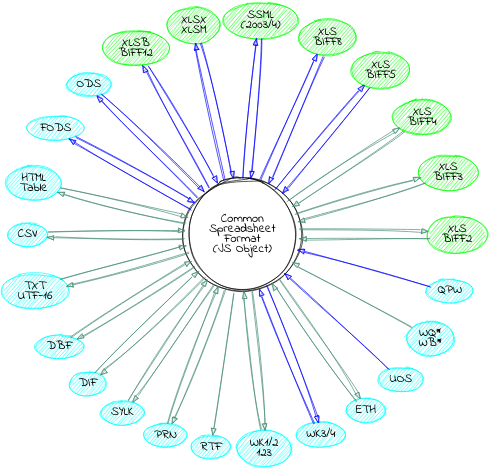
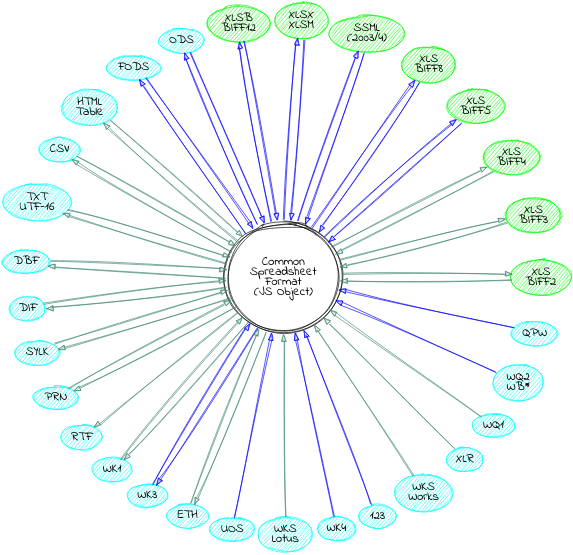
works minutiae

diff --git a/bits/41_lotus.js b/bits/41_lotus.js
@@ -28,11 +28,17 @@ var WK_ = /*#__PURE__*/ (function() {
 		if(!d) return d;
 		var o = opts || {};
 		if(DENSE != null && o.dense == null) o.dense = DENSE;
-		var s/*:Worksheet*/ = ((o.dense ? [] : {})/*:any*/), n = "Sheet1", sidx = 0;
-		var sheets = {}, snames = [n], realnames = [];
+		var s/*:Worksheet*/ = ((o.dense ? [] : {})/*:any*/), n = "Sheet1", next_n = "", sidx = 0;
+		var sheets = {}, snames = [], realnames = [];
 
 		var refguess = {s: {r:0, c:0}, e: {r:0, c:0} };
 		var sheetRows = o.sheetRows || 0;
+
+		if(d[2] == 0x00) {
+			if(d[3] == 0x08 || d[3] == 0x09) {
+				if(d.length >= 16 && d[14] == 0x05 && d[15] === 0x6c) throw new Error("Unsupported Works 3 for Mac file");
+			}
+		}
 
 		if(d[2] == 0x02) {
 			o.Enum = WK1Enum;
@@ -42,6 +48,8 @@ var WK_ = /*#__PURE__*/ (function() {
 					if(val >= 0x1000) o.qpro = true;
 					break;
 				case 0x06: refguess = val; break; /* RANGE */
+				case 0xCC: if(val) next_n = val; break; /* SHEETNAMECS */
+				case 0xDE: next_n = val; break; /* SHEETNAMELP */
 				case 0x0F: /* LABEL */
 				case 0x33: /* STRING */
 					if(!o.qpro) val[1].v = val[1].v.slice(1);
@@ -54,6 +62,18 @@ var WK_ = /*#__PURE__*/ (function() {
 						val[1].z = o.dateNF || SSF._table[14];
 						if(o.cellDates) { val[1].t = 'd'; val[1].v = numdate(val[1].v); }
 					}
+
+					if(o.qpro) {
+						if(val[3] > sidx) {
+							s["!ref"] = encode_range(refguess);
+							sheets[n] = s;
+							snames.push(n);
+							s = (o.dense ? [] : {});
+							refguess = {s: {r:0, c:0}, e: {r:0, c:0} };
+							sidx = val[3]; n = next_n || "Sheet" + (sidx + 1); next_n = "";
+						}
+					}
+
 					var tmpcell = o.dense ? (s[val[0].r]||[])[val[0].c] : s[encode_cell(val[0])];
 					if(tmpcell) {
 						tmpcell.t = val[1].t; tmpcell.v = val[1].v;
@@ -72,6 +92,7 @@ var WK_ = /*#__PURE__*/ (function() {
 			o.Enum = WK3Enum;
 			if(d[2] == 0x0E) { o.qpro = true; d.l = 0; }
 			lotushopper(d, function(val, R, RT) { switch(RT) {
+				case 0xCC: n = val; break; /* SHEETNAMECS */
 				case 0x16: /* LABEL16 */
 					val[1].v = val[1].v.slice(1);
 					/* falls through */
@@ -84,10 +105,10 @@ var WK_ = /*#__PURE__*/ (function() {
 					if(val[3] > sidx) {
 						s["!ref"] = encode_range(refguess);
 						sheets[n] = s;
+						snames.push(n);
 						s = (o.dense ? [] : {});
 						refguess = {s: {r:0, c:0}, e: {r:0, c:0} };
 						sidx = val[3]; n = "Sheet" + (sidx + 1);
-						snames.push(n);
 					}
 					if(sheetRows > 0 && val[0].r >= sheetRows) break;
 					if(o.dense) {
@@ -100,17 +121,23 @@ var WK_ = /*#__PURE__*/ (function() {
 				case 0x1B: /* XFORMAT */
 					if(val[0x36b0]) realnames[val[0x36b0][0]] = val[0x36b0][1];
 					break;
+				case 0x0601: /* SHEETINFOQP */
+					realnames[val[0]] = val[1]; if(val[0] == sidx) n = val[1]; break;
 				default: break;
 			}}, o);
 		} else throw new Error("Unrecognized LOTUS BOF " + d[2]);
-
 		s["!ref"] = encode_range(refguess);
-		sheets[n] = s;
+		sheets[next_n || n] = s;
+		snames.push(next_n || n);
 		if(!realnames.length) return { SheetNames: snames, Sheets: sheets };
 		var osheets = {}, rnames = [];
+		/* TODO: verify no collisions */
 		for(var i = 0; i < realnames.length; ++i) if(sheets[snames[i]]) {
+			rnames.push(realnames[i] || snames[i]);
+			osheets[realnames[i]] = sheets[realnames[i]] || sheets[snames[i]];
+		} else {
 			rnames.push(realnames[i]);
-			osheets[realnames[i]] = sheets[snames[i]];
+			osheets[realnames[i]] = ({ "!ref": "A1" });
 		}
 		return { SheetNames: rnames, Sheets: osheets };
 	}
@@ -126,7 +153,8 @@ var WK_ = /*#__PURE__*/ (function() {
 
 		write_biff_rec(ba, 0x00, write_BOF_WK1(0x0406));
 		write_biff_rec(ba, 0x06, write_RANGE(range));
-		for(var R = range.s.r; R <= range.e.r; ++R) {
+		var max_R = Math.min(range.e.r, 8191);
+		for(var R = range.s.r; R <= max_R; ++R) {
 			var rr = encode_row(R);
 			for(var C = range.s.c; C <= range.e.c; ++C) {
 				if(R === range.s.r) cols[C] = encode_col(C);
@@ -165,7 +193,8 @@ var WK_ = /*#__PURE__*/ (function() {
 			var range = safe_decode_range(ws["!ref"]);
 			var dense = Array.isArray(ws);
 			var cols = [];
-			for(var R = range.s.r; R <= range.e.r; ++R) {
+			var max_R = Math.min(range.e.r, 8191);
+			for(var R = range.s.r; R <= max_R; ++R) {
 				var rr = encode_row(R);
 				for(var C = range.s.c; C <= range.e.c; ++C) {
 					if(R === range.s.r) cols[C] = encode_col(C);
@@ -211,6 +240,7 @@ var WK_ = /*#__PURE__*/ (function() {
 			if(rows < range.e.r) rows = range.e.r;
 			if(cols < range.e.c) cols = range.e.c;
 		}
+		if(rows > 8191) rows = 8191;
 		out.write_shift(2, rows);
 		out.write_shift(1, wscnt);
 		out.write_shift(1, cols);
@@ -223,12 +253,23 @@ var WK_ = /*#__PURE__*/ (function() {
 		return out;
 	}
 
-	function parse_RANGE(blob) {
+	function parse_RANGE(blob, length, opts) {
 		var o = {s:{c:0,r:0},e:{c:0,r:0}};
+		if(length == 8 && opts.qpro) {
+			o.s.c = blob.read_shift(1);
+			blob.l++;
+			o.s.r = blob.read_shift(2);
+			o.e.c = blob.read_shift(1);
+			blob.l++;
+			o.e.r = blob.read_shift(2);
+			return o;
+		}
 		o.s.c = blob.read_shift(2);
 		o.s.r = blob.read_shift(2);
+		if(length == 12 && opts.qpro) blob.l += 2;
 		o.e.c = blob.read_shift(2);
 		o.e.r = blob.read_shift(2);
+		if(length == 12 && opts.qpro) blob.l += 2;
 		if(o.s.c == 0xFFFF) o.s.c = o.e.c = o.s.r = o.e.r = 0;
 		return o;
 	}
@@ -242,10 +283,10 @@ var WK_ = /*#__PURE__*/ (function() {
 	}
 
 	function parse_cell(blob, length, opts) {
-		var o = [{c:0,r:0}, {t:'n',v:0}, 0];
+		var o = [{c:0,r:0}, {t:'n',v:0}, 0, 0];
 		if(opts.qpro && opts.vers != 0x5120) {
 			o[0].c = blob.read_shift(1);
-			blob.l++;
+			o[3] = blob.read_shift(1);
 			o[0].r = blob.read_shift(2);
 			blob.l+=2;
 		} else {
@@ -357,7 +398,7 @@ var WK_ = /*#__PURE__*/ (function() {
 
 	function wk1_fmla_to_csf(blob, o) {
 		prep_blob(blob, 0);
-		var out = [], argc = 0, R = "", C = "";
+		var out = [], argc = 0, R = "", C = "", argL = "", argR = "";
 		while(blob.l < blob.length) {
 			var cc = blob[blob.l++];
 			switch(cc) {
@@ -390,7 +431,7 @@ var WK_ = /*#__PURE__*/ (function() {
 				case 0x16: out.push("NOT(" + out.pop() + ")"); break;
 
 				case 0x14: case 0x15: {
-					var argR = out.pop(), argL = out.pop();
+					argR = out.pop(); argL = out.pop();
 					out.push(["AND", "OR"][cc - 0x14] + "(" + argL + "," + argR + ")");
 				} break;
 
@@ -536,6 +577,27 @@ var WK_ = /*#__PURE__*/ (function() {
 		return o;
 	}
 
+	function parse_SHEETNAMECS(blob, length) {
+		return blob[blob.l + length - 1] == 0 ? blob.read_shift(length, 'cstr') : "";
+	}
+
+	function parse_SHEETNAMELP(blob, length) {
+		var len = blob[blob.l++];
+		if(len > length - 1) len = length - 1;
+		var o = ""; while(o.length < len) o += String.fromCharCode(blob[blob.l++]);
+		return o;
+	}
+
+	function parse_SHEETINFOQP(blob, length, opts) {
+		if(!opts.qpro || length < 21) return;
+		var id = blob.read_shift(1);
+		blob.l += 17;
+		var len = blob.read_shift(1);
+		blob.l += 2;
+		var nm = blob.read_shift(length - 21, 'cstr');
+		return [id, nm];
+	}
+
 	function parse_XFORMAT(blob, length) {
 		var o = {}, tgt = blob.l + length;
 		while(blob.l < tgt) {
@@ -623,6 +685,8 @@ var WK_ = /*#__PURE__*/ (function() {
 		/*::[*/0x0067/*::]*/: { n:"RRANGES??" },
 		/*::[*/0x0068/*::]*/: { n:"FNAME??" },
 		/*::[*/0x0069/*::]*/: { n:"MRANGES??" },
+		/*::[*/0x00CC/*::]*/: { n:"SHEETNAMECS", f:parse_SHEETNAMECS },
+		/*::[*/0x00DE/*::]*/: { n:"SHEETNAMELP", f:parse_SHEETNAMELP },
 		/*::[*/0xFFFF/*::]*/: { n:"" }
 	};
 
@@ -688,6 +752,7 @@ var WK_ = /*#__PURE__*/ (function() {
 		/*::[*/0x00BC/*::]*/: { n:"??" },
 		/*::[*/0x00C3/*::]*/: { n:"??" },
 		/*::[*/0x00C9/*::]*/: { n:"??" },
+		/*::[*/0x00CC/*::]*/: { n:"SHEETNAMECS", f:parse_SHEETNAMECS },
 		/*::[*/0x00CD/*::]*/: { n:"??" },
 		/*::[*/0x00CE/*::]*/: { n:"??" },
 		/*::[*/0x00CF/*::]*/: { n:"??" },
@@ -732,6 +797,7 @@ var WK_ = /*#__PURE__*/ (function() {
 		/*::[*/0x029A/*::]*/: { n:"??" },
 		/*::[*/0x0300/*::]*/: { n:"??" },
 		/*::[*/0x0304/*::]*/: { n:"??" },
+		/*::[*/0x0601/*::]*/: { n:"SHEETINFOQP", f:parse_SHEETINFOQP },
 		/*::[*/0x0640/*::]*/: { n:"??" },
 		/*::[*/0x0642/*::]*/: { n:"??" },
 		/*::[*/0x0701/*::]*/: { n:"??" },

diff --git a/bits/87_read.js b/bits/87_read.js
@@ -91,12 +91,20 @@ function readSync(data/*:RawData*/, opts/*:?ParseOpts*/)/*:Workbook*/ {
 		case 0x54: if(n[1] === 0x41 && n[2] === 0x42 && n[3] === 0x4C) return DIF.to_workbook(d, o); break;
 		case 0x50: return (n[1] === 0x4B && n[2] < 0x09 && n[3] < 0x09) ? read_zip(d, o) : read_prn(data, d, o, str);
 		case 0xEF: return n[3] === 0x3C ? parse_xlml(d, o) : read_prn(data, d, o, str);
-		case 0xFF: if(n[1] === 0xFE) { return read_utf16(d, o); } break;
-		case 0x00: if(n[1] === 0x00 && n[2] >= 0x02 && n[3] === 0x00) return WK_.to_workbook(d, o); break;
+		case 0xFF:
+			if(n[1] === 0xFE) { return read_utf16(d, o); }
+			else if(n[1] === 0x00 && n[2] === 0x02 && n[3] === 0x00) return WK_.to_workbook(d, o);
+			break;
+		case 0x00:
+			if(n[1] === 0x00) {
+				if(n[2] >= 0x02 && n[3] === 0x00) return WK_.to_workbook(d, o);
+				if(n[2] === 0x00 && (n[3] === 0x08 || n[3] === 0x09)) return WK_.to_workbook(d, o);
+			}
+			break;
 		case 0x03: case 0x83: case 0x8B: case 0x8C: return DBF.to_workbook(d, o);
 		case 0x7B: if(n[1] === 0x5C && n[2] === 0x72 && n[3] === 0x74) return RTF.to_workbook(d, o); break;
 		case 0x0A: case 0x0D: case 0x20: return read_plaintext_raw(d, o);
-		case 0x89: if(n[1] === 0x50 && n[2] === 0x4E && n[3] === 0x47) throw new Error("PNG Image File is not a spreadsheet"); break; 
+		case 0x89: if(n[1] === 0x50 && n[2] === 0x4E && n[3] === 0x47) throw new Error("PNG Image File is not a spreadsheet"); break;
 	}
 	if(DBF.versions.indexOf(n[0]) > -1 && n[2] <= 12 && n[3] <= 31) return DBF.to_workbook(d, o);
 	return read_prn(data, d, o, str);

diff --git a/bits/76_xls.js b/bits/76_xls.js
@@ -855,7 +855,9 @@ function parse_workbook(blob, options/*:ParseOpts*/)/*:Workbook*/ {
 	if(!options.bookSheets) wb.Sheets=Sheets;
 	if(!wb.SheetNames.length && Preamble["!ref"]) {
 		wb.SheetNames.push("Sheet1");
+		/*jshint -W069 */
 		if(wb.Sheets) wb.Sheets["Sheet1"] = Preamble;
+		/*jshint +W069 */
 	} else wb.Preamble=Preamble;
 	if(wb.Sheets) FilterDatabases.forEach(function(r,i) { wb.Sheets[wb.SheetNames[i]]['!autofilter'] = r; });
 	wb.Strings = sst;
@@ -950,6 +952,8 @@ else/*:: if(cfb instanceof CFBContainer) */ {
 	else if((_data=CFB.find(cfb, 'PerfectOffice_MAIN')) && _data.content) WorkbookP = WK_.to_workbook(_data.content, (options.type = T, options));
 	/* Quattro Pro 9 */
 	else if((_data=CFB.find(cfb, 'NativeContent_MAIN')) && _data.content) WorkbookP = WK_.to_workbook(_data.content, (options.type = T, options));
+	/* Works 4 for Mac */
+	else if((_data=CFB.find(cfb, 'MN0')) && _data.content) throw new Error("Unsupported Works 4 for Mac file");
 	else throw new Error("Cannot find Workbook stream");
 	if(options.bookVBA && cfb.FullPaths && CFB.find(cfb, '/_VBA_PROJECT_CUR/VBA/dir')) WorkbookP.vbaraw = make_vba_xls(cfb);
 }

diff --git a/bits/81_writeods.js b/bits/81_writeods.js
@@ -1,13 +1,15 @@
 /* OpenDocument */
 var write_styles_ods/*:{(wb:any, opts:any):string}*/ = (function() {
-	var master_styles = '<office:master-styles>'
-	+ '<style:master-page style:name="mp1" style:page-layout-name="mp1">'
-	+ '<style:header/>'
-	+ '<style:header-left style:display="false"/>'
-	+ '<style:footer/>'
-	+ '<style:footer-left style:display="false"/>'
-	+ '</style:master-page>'
-	+ '</office:master-styles>';
+	var master_styles = [
+		'<office:master-styles>',
+			'<style:master-page style:name="mp1" style:page-layout-name="mp1">',
+				'<style:header/>',
+				'<style:header-left style:display="false"/>',
+				'<style:footer/>',
+				'<style:footer-left style:display="false"/>',
+			'</style:master-page>',
+		'</office:master-styles>'
+	].join("");
 
 	var payload = '<office:document-styles ' + wxt_helper({
 		'xmlns:office':   "urn:oasis:names:tc:opendocument:xmlns:office:1.0",

diff --git a/misc/coarsify.js b/misc/coarsify.js
@@ -2,8 +2,12 @@
 const fs = require('fs');
 const coarse = require('coarse');
  
-const svg = fs.readFileSync(process.argv[2]);
-const roughened = coarse(svg);
+const svg = fs.readFileSync(process.argv[2], "utf8");
+let roughened = coarse(svg);
+const viewbox = roughened.match(/viewBox="(.*?)"/)[1].split(/\s+/);
+const v = viewbox.map(x => parseFloat(x));
+v[0] -= 40; v[1] += 40; v[2] += 80; v[3] += 80;
+roughened = roughened.replace(/<title>G<\/title>/, `$&<polygon fill="white" stroke="" points="${v[0]},${v[1]} ${v[0]},${v[1]-v[3]} ${v[0]+v[2]},${v[1]-v[3]} ${v[0]+v[2]},${v[1]} ${v[0]},${v[1]}"/>`);
  
 fs.writeFileSync(process.argv[3], roughened);
 

diff --git a/bits/31_rels.js b/bits/31_rels.js
@@ -30,7 +30,7 @@ function parse_rels(data/*:?string*/, currentFilePath/*:string*/) {
 		var y = parsexmltag(x);
 		/* 9.3.2.2 OPC_Relationships */
 		if (y[0] === '<Relationship') {
-			var rel = {}; rel.Type = y.Type; rel.Target = y.Target; rel.Id = y.Id; rel.TargetMode = y.TargetMode;
+			var rel = {}; rel.Type = y.Type; rel.Target = y.Target; rel.Id = y.Id; if(y.TargetMode) rel.TargetMode = y.TargetMode;
 			var canonictarget = y.TargetMode === 'External' ? y.Target : resolve_path(y.Target, currentFilePath);
 			rels[canonictarget] = rel;
 			hash[y.Id] = rel;

diff --git a/bits/99_footer.js b/bits/99_footer.js
@@ -6,6 +6,6 @@ else if(typeof module !== 'undefined' && module.exports) make_xlsx_lib(module.ex
 else if(typeof define === 'function' && define.amd) define('xlsx', function() { if(!XLSX.version) make_xlsx_lib(XLSX); return XLSX; });
 else make_xlsx_lib(XLSX);
 /* NOTE: the following extra line is needed for "Lightning Locker Service" */
-if(typeof window !== 'undefined' && !window.XLSX) window.XLSX = XLSX;
+if(typeof window !== 'undefined' && !window.XLSX) try { window.XLSX = XLSX; } catch(e) {}
 /*exported XLS, ODS */
 var XLS = XLSX, ODS = XLSX;

diff --git a/test.js b/test.js
@@ -524,9 +524,11 @@ describe('parse options', function() {
 			} } };
 			var str = X.write(wb, {bookType: "xlsx", type: "binary"});
 			var wb2 = X.read(str, {type: "binary"});
+			/*jshint -W069 */
 			assert.equal(wb2.Sheets.Sheet1["A1"].f, "IFS(2>3,1,3>2,2)");
 			var wb3 = X.read(str, {type: "binary", xlfn: true});
 			assert.equal(wb3.Sheets.Sheet1["A1"].f, "_xlfn.IFS(2>3,1,3>2,2)");
+			/*jshint +W069 */
 		});
 	});
 	describe('sheet', function() {

diff --git a/tests/core.js b/tests/core.js
@@ -524,9 +524,11 @@ describe('parse options', function() {
 			} } };
 			var str = X.write(wb, {bookType: "xlsx", type: "binary"});
 			var wb2 = X.read(str, {type: "binary"});
+			/*jshint -W069 */
 			assert.equal(wb2.Sheets.Sheet1["A1"].f, "IFS(2>3,1,3>2,2)");
 			var wb3 = X.read(str, {type: "binary", xlfn: true});
 			assert.equal(wb3.Sheets.Sheet1["A1"].f, "_xlfn.IFS(2>3,1,3>2,2)");
+			/*jshint +W069 */
 		});
 	});
 	describe('sheet', function() {

diff --git a/bits/39_xlsbiff.js b/bits/39_xlsbiff.js
@@ -701,7 +701,9 @@ function parse_Lbl(blob, length, opts) {
 	var name = parse_XLUnicodeStringNoCch(blob, cch, opts);
 	if(flags & 0x20) name = XLSLblBuiltIn[name.charCodeAt(0)];
 	var npflen = target - blob.l; if(opts && opts.biff == 2) --npflen;
+	/*jshint -W018 */
 	var rgce = (target == blob.l || cce === 0 || !(npflen > 0)) ? [] : parse_NameParsedFormula(blob, npflen, opts, cce);
+	/*jshint +W018 */
 	return {
 		chKey: chKey,
 		Name: name,

diff --git a/bits/97_node.js b/bits/97_node.js
@@ -1,5 +1,8 @@
 if(has_buf && typeof require != 'undefined') (function() {
-	var Readable = require('stream').Readable;
+	var strmod = require('stream');
+	if(!strmod) return;
+	var Readable = strmod.Readable;
+	if(!Readable) return;
 
 	var write_csv_stream = function(sheet/*:Worksheet*/, opts/*:?Sheet2CSVOpts*/) {
 		var stream = Readable();

diff --git a/bits/77_parsetab.js b/bits/77_parsetab.js
@@ -842,7 +842,9 @@ var XLSBRecordEnum = {
 };
 
 var XLSBRE = evert_key(XLSBRecordEnum, 'n');
+/*jshint -W069 */
 XLSBRE["BrtFRTArchID$"] = 0x0010;
+/*jshint +W069 */
 
 /* [MS-XLS] 2.3 Record Enumeration (and other sources) */
 var XLSRecordEnum = {
